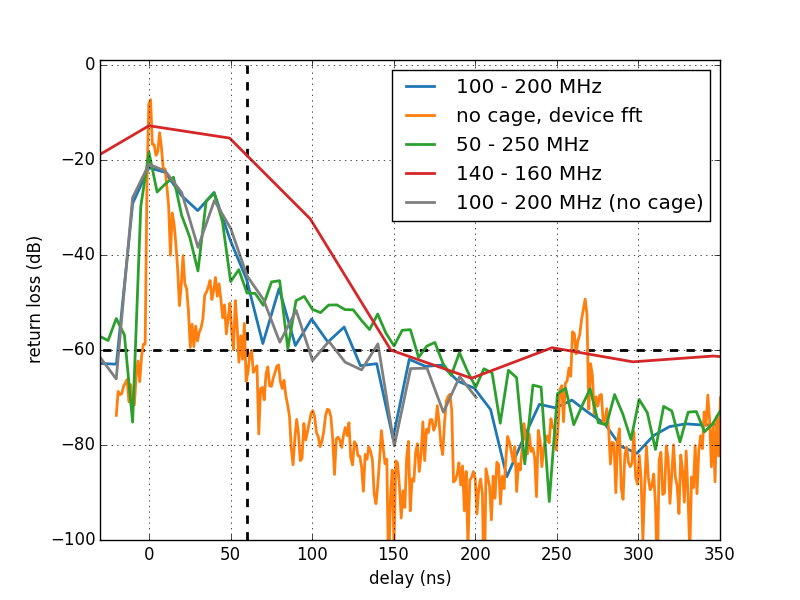
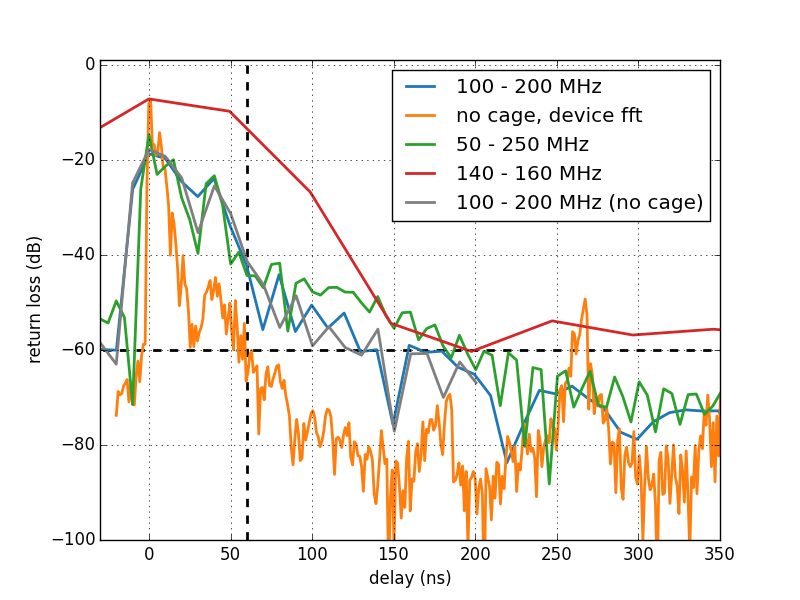
plots update with correct correction factor.

diff --git a/plots/plot_delay3.py b/plots/plot_delay3.py
@@ -38,8 +38,9 @@ def take_delay(db, ph, fq, window='blackman-harris'):
     
     if True:
     #if False:
-        _dw *= n.abs(_dw[0])  # these should be changed to the dc bin of the windowed data.
-        _d *= n.abs(_d[0]) 
+        
+        _dw *= ( n.abs(_dw[0])/ (1- n.abs(_dw[0])))  # these should be changed to the dc bin of the windowed data.
+        _d *= ( n.abs(_d[0])/ (1- n.abs(_d[0])))  # these should be changed to the dc bin of the windowed data.
 
     return n.fft.fftshift(_dw), n.fft.fftshift(_d), n.fft.fftshift(tau)
 
@@ -81,7 +82,6 @@ valids = {
 #    axes[i].set_ylabel('return loss (dB)')
 #    axes[i].grid(1)
 #    axes[i].legend() 
-
 for i,v in enumerate(valids.keys()):
     print v
     if v == 'no cage, device fft':

diff --git a/plots/plot_bh_vs_sq.py b/plots/plot_bh_vs_sq.py
@@ -20,8 +20,8 @@ def take_delay(db, ph, fq, window='blackman-harris'):
     _dw = n.fft.ifft(d*window) / window.mean() #compensate for window amplitude
     
     if True:
-        _dw *= n.abs(_d[0]) 
-        _d *= n.abs(_d[0]) 
+        _dw *= ( n.abs(_dw[0])/ (1- n.abs(_dw[0])))  # these should be changed to the dc bin of the windowed data.
+        _d *= ( n.abs(_d[0])/ (1- n.abs(_d[0])))  # these should be changed to the dc bin of the windowed data.
 
     return n.fft.fftshift(_dw), n.fft.fftshift(_d), n.fft.fftshift(tau)
 

diff --git a/plots/plot_heights.py b/plots/plot_heights.py
@@ -21,8 +21,8 @@ def take_delay(db, ph, fq, window='blackman-harris'):
     _dw = n.fft.ifft(d*window) / window.mean() #compensate for window amplitude
 
     if True:
-        _dw *= n.abs(_d[0])
-        _d *= n.abs(_d[0])
+        _dw *= ( n.abs(_dw[0])/ (1- n.abs(_dw[0])))  # these should be changed to the dc bin of the windowed data.
+        _d *= ( n.abs(_d[0])/ (1- n.abs(_d[0])))  # these should be changed to the dc bin of the windowed data.
 
     return n.fft.fftshift(_dw), n.fft.fftshift(_d), n.fft.fftshift(tau)
 
